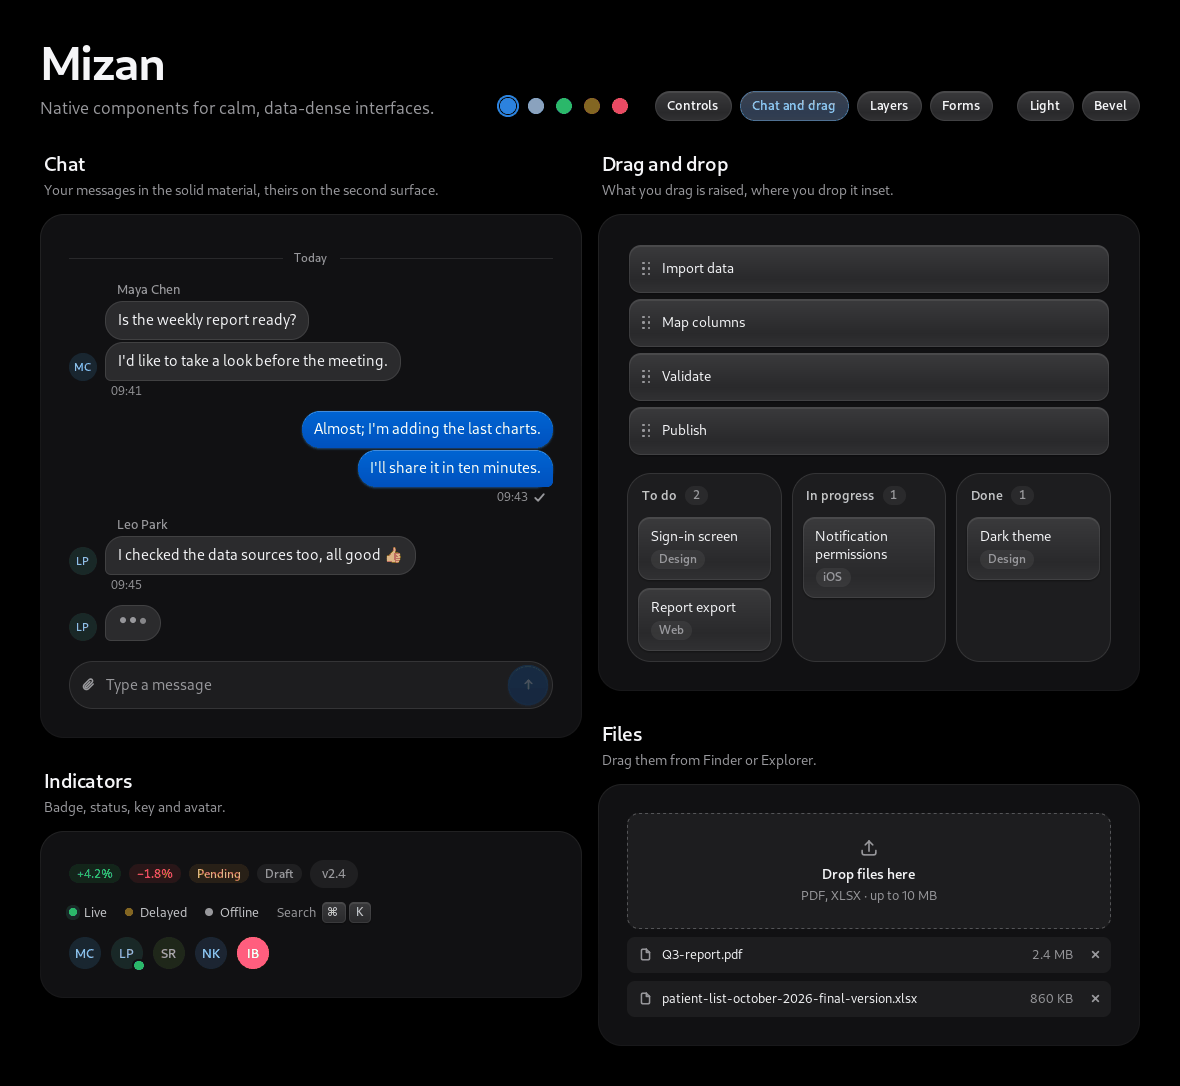
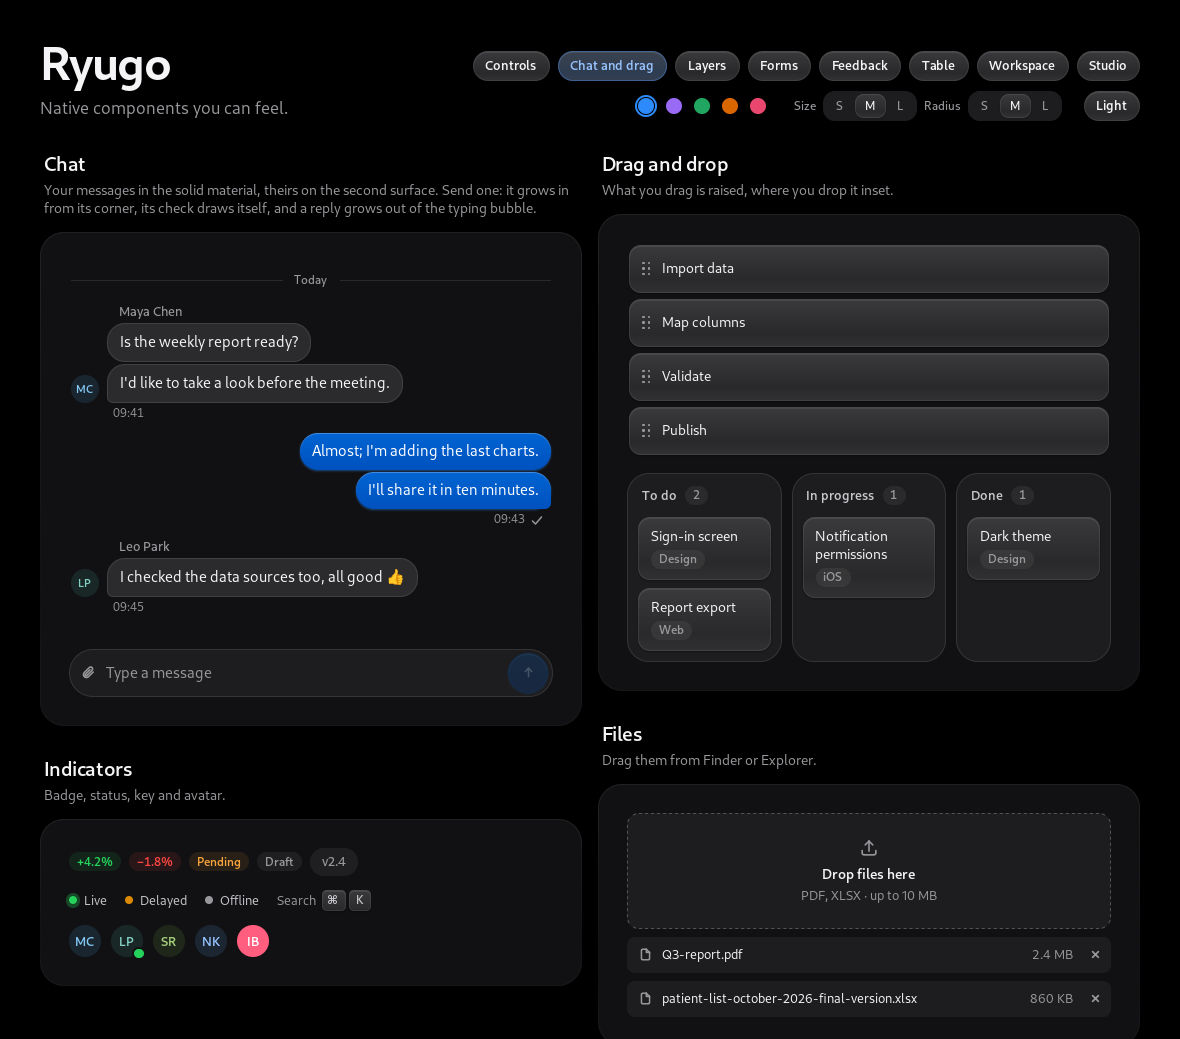
README: retake the pictures as Ryugo, install coming soon
The pictures showed the old name and tagline, and an older look of the
controls. They are the gallery's snapshots again, cut to their content;
the Dock's, a tab held over an area with the compass showing, and the
palettes', in the dark theme, were drawn the same way.

The package isn't published yet, so Install says coming soon, and the
gallery runs from a clone.

diff --git a/README.md b/README.md
@@ -16,9 +16,10 @@ the look.
 
 ## Install
 
-```sh
-go get github.com/imhalid/ryu-go
-```
+Coming soon: the package isn't published yet. Its first release will say
+here how to add it to an app.
+
+## Use
 
 ```go
 import (
@@ -40,10 +41,11 @@ func (a *app) view(c *ui.Context) {
 }
 ```
 
-Run the gallery, a tour of every component:
+Run the gallery, a tour of every component, from a clone of this
+repository:
 
 ```sh
-go run github.com/imhalid/ryu-go/cmd/gallery@latest
+go run ./cmd/gallery
 ```
 
 ## Theming
